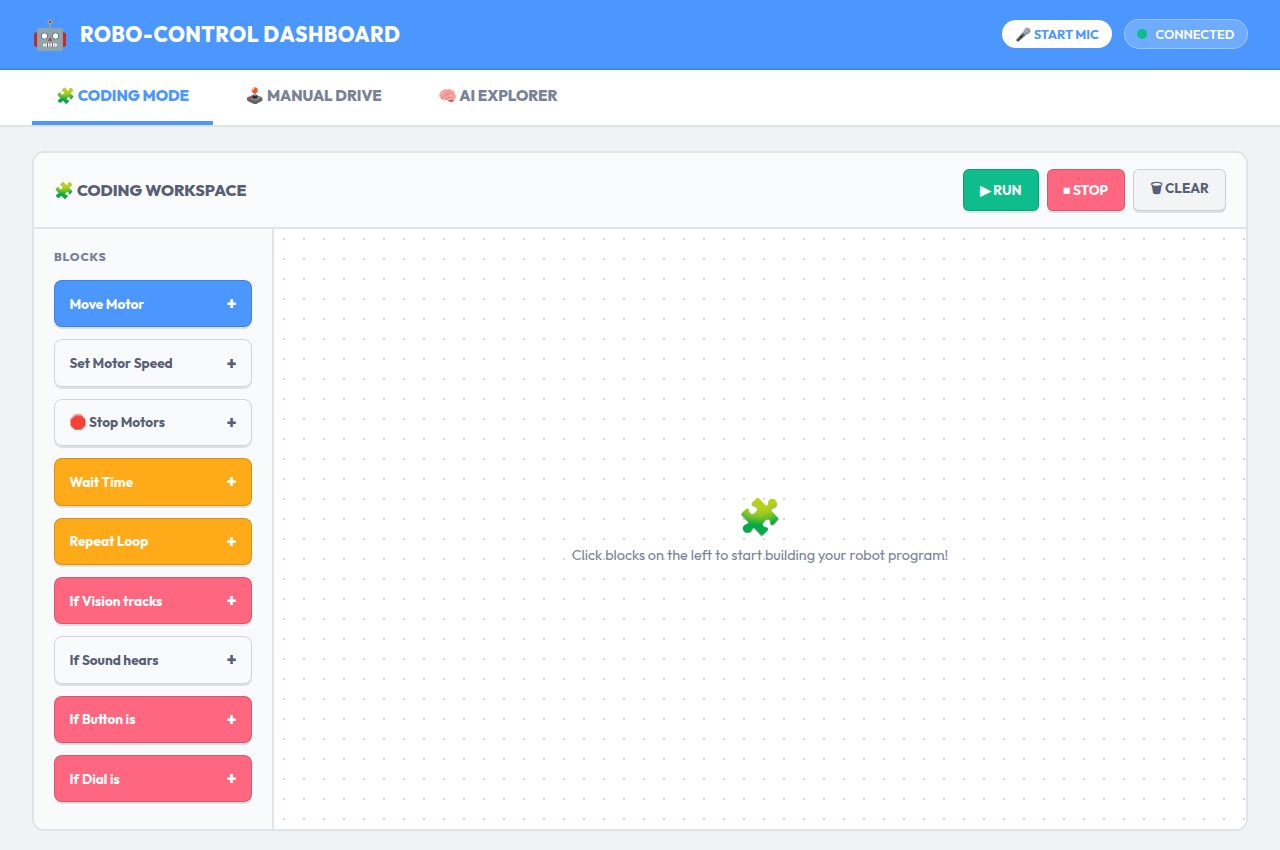
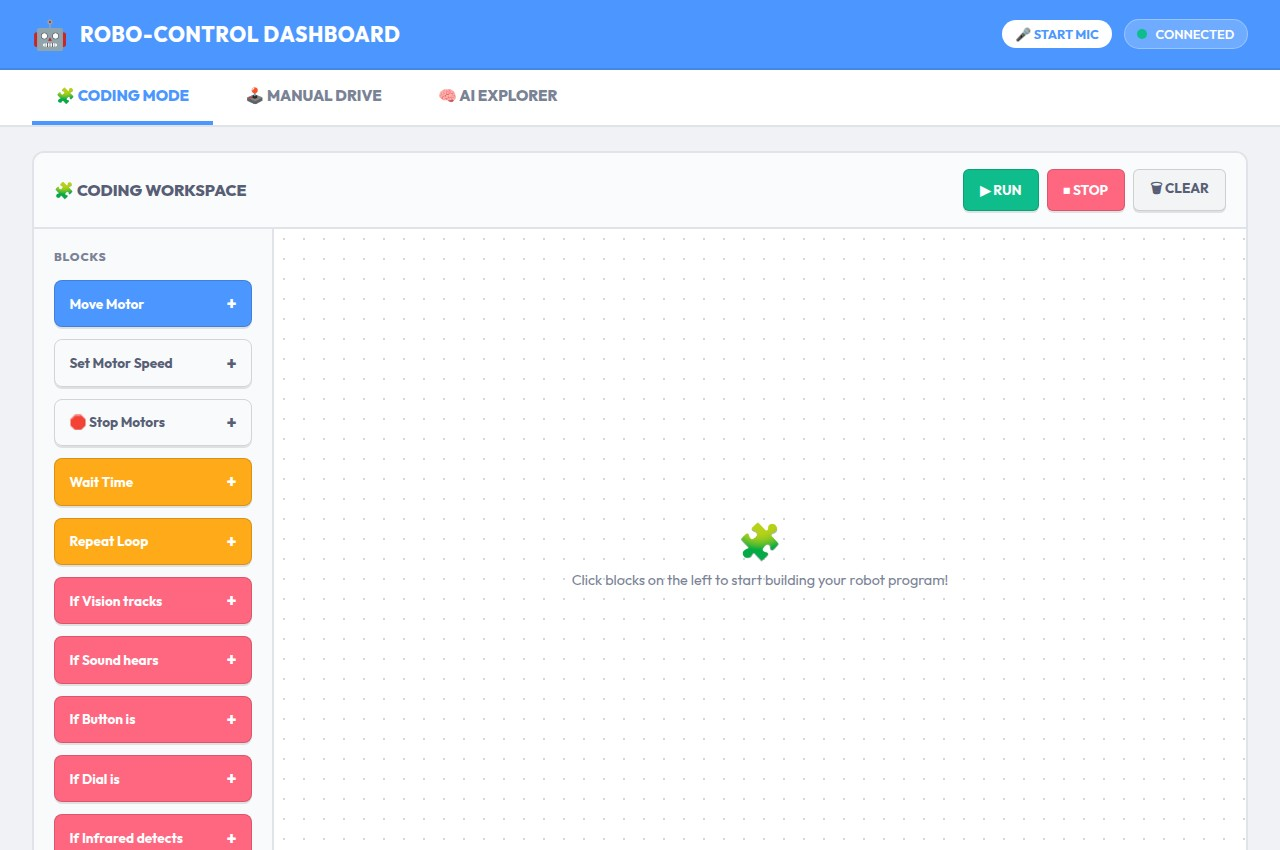
Add block templates for Infrared sensors, Light sensors, and Limit Switches to the toolbox and compiler

Changed region(s): [[0.4375, 0.5812, 0.75, 0.7035], [0.0312, 0.7341, 0.2188, 0.8259], [0.0312, 0.9482, 0.2188, 1.0]]

diff --git a/static/app.js b/static/app.js
@@ -307,6 +307,150 @@ function createBlockElement(type) {
     
     return container;
   }
+
+  if (type === 'if-ir') {
+    const container = document.createElement('div');
+    container.className = 'loop-container';
+    container.style.borderLeft = '6px solid var(--red-accent)';
+    container.style.backgroundColor = 'rgba(255, 0, 85, 0.02)';
+    container.dataset.blockType = 'if-ir';
+    
+    container.innerHTML = `
+      <div class="loop-header">
+        <div class="loop-header-left">
+          <span>📡 If Infrared on</span>
+          <select class="if-ir-port">
+            <option value="button_a">GP12</option>
+            <option value="button_b">GP13</option>
+          </select>
+          <span>detects</span>
+          <select class="if-ir-state">
+            <option value="pressed">Object/Line (Low)</option>
+            <option value="released">Nothing (High)</option>
+          </select>
+          <span>then:</span>
+        </div>
+        <button class="block-remove">&times;</button>
+      </div>
+      <div class="loop-body"></div>
+    `;
+    
+    const body = container.querySelector('.loop-body');
+    const removeBtn = container.querySelector('.block-remove');
+    
+    setTimeout(() => setActiveContainer(body), 50);
+    
+    body.addEventListener('click', (e) => {
+      e.stopPropagation();
+      setActiveContainer(body);
+    });
+    
+    removeBtn.addEventListener('click', (e) => {
+      e.stopPropagation();
+      container.remove();
+      if (activeContainer === body) {
+        setActiveContainer(mainWorkspace);
+      }
+      updateEmptyMessages();
+    });
+    
+    return container;
+  }
+
+  if (type === 'if-light') {
+    const container = document.createElement('div');
+    container.className = 'loop-container';
+    container.style.borderLeft = '6px solid var(--orange-accent)';
+    container.style.backgroundColor = 'rgba(255, 171, 25, 0.02)';
+    container.dataset.blockType = 'if-light';
+    
+    container.innerHTML = `
+      <div class="loop-header">
+        <div class="loop-header-left">
+          <span>☀️ If Light (GP14) is</span>
+          <select class="if-light-op">
+            <option value="lt">Darker than</option>
+            <option value="gt">Brighter than</option>
+            <option value="eq">Equal to</option>
+          </select>
+          <input type="number" value="30" min="0" max="100" class="if-light-val">%
+          <span>then:</span>
+        </div>
+        <button class="block-remove">&times;</button>
+      </div>
+      <div class="loop-body"></div>
+    `;
+    
+    const body = container.querySelector('.loop-body');
+    const removeBtn = container.querySelector('.block-remove');
+    
+    setTimeout(() => setActiveContainer(body), 50);
+    
+    body.addEventListener('click', (e) => {
+      e.stopPropagation();
+      setActiveContainer(body);
+    });
+    
+    removeBtn.addEventListener('click', (e) => {
+      e.stopPropagation();
+      container.remove();
+      if (activeContainer === body) {
+        setActiveContainer(mainWorkspace);
+      }
+      updateEmptyMessages();
+    });
+    
+    return container;
+  }
+
+  if (type === 'if-limit') {
+    const container = document.createElement('div');
+    container.className = 'loop-container';
+    container.style.borderLeft = '6px solid var(--red-accent)';
+    container.style.backgroundColor = 'rgba(255, 0, 85, 0.02)';
+    container.dataset.blockType = 'if-limit';
+    
+    container.innerHTML = `
+      <div class="loop-header">
+        <div class="loop-header-left">
+          <span>🛑 If Limit Switch on</span>
+          <select class="if-limit-port">
+            <option value="button_a">GP12</option>
+            <option value="button_b">GP13</option>
+          </select>
+          <span>is</span>
+          <select class="if-limit-state">
+            <option value="pressed">Triggered (Pressed)</option>
+            <option value="released">Open (Released)</option>
+          </select>
+          <span>then:</span>
+        </div>
+        <button class="block-remove">&times;</button>
+      </div>
+      <div class="loop-body"></div>
+    `;
+    
+    const body = container.querySelector('.loop-body');
+    const removeBtn = container.querySelector('.block-remove');
+    
+    setTimeout(() => setActiveContainer(body), 50);
+    
+    body.addEventListener('click', (e) => {
+      e.stopPropagation();
+      setActiveContainer(body);
+    });
+    
+    removeBtn.addEventListener('click', (e) => {
+      e.stopPropagation();
+      container.remove();
+      if (activeContainer === body) {
+        setActiveContainer(mainWorkspace);
+      }
+      updateEmptyMessages();
+    });
+    
+    return container;
+  }
   
   // Normal blocks
   const block = document.createElement('div');
@@ -475,6 +619,45 @@ function compileWorkspace(container) {
           sensor: 'potentiometer',
           value: val,
           op: op,
+          body: nestedBlocks
+        });
+      } else if (blockType === 'if-ir') {
+        const port = child.querySelector('.if-ir-port').value;
+        const state = child.querySelector('.if-ir-state').value;
+        const loopBody = child.querySelector('.loop-body');
+        const nestedBlocks = compileWorkspace(loopBody);
+        
+        blocks.push({
+          action: 'if',
+          sensor: port,
+          value: state,
+          op: 'eq',
+          body: nestedBlocks
+        });
+      } else if (blockType === 'if-light') {
+        const op = child.querySelector('.if-light-op').value;
+        const val = parseInt(child.querySelector('.if-light-val').value) || 0;
+        const loopBody = child.querySelector('.loop-body');
+        const nestedBlocks = compileWorkspace(loopBody);
+        
+        blocks.push({
+          action: 'if',
+          sensor: 'potentiometer',
+          value: val,
+          op: op,
+          body: nestedBlocks
+        });
+      } else if (blockType === 'if-limit') {
+        const port = child.querySelector('.if-limit-port').value;
+        const state = child.querySelector('.if-limit-state').value;
+        const loopBody = child.querySelector('.loop-body');
+        const nestedBlocks = compileWorkspace(loopBody);
+        
+        blocks.push({
+          action: 'if',
+          sensor: port,
+          value: state,
+          op: 'eq',
           body: nestedBlocks
         });
       }

diff --git a/static/index.html b/static/index.html
@@ -79,7 +79,7 @@
               <span class="add-icon">+</span>
             </div>
 
-            <div class="block-template block-if-sound" data-type="if-sound">
+            <div class="block-template block-if" data-type="if-sound">
               <span>If Sound hears</span>
               <span class="add-icon">+</span>
             </div>
@@ -91,6 +91,21 @@
 
             <div class="block-template block-if" data-type="if-dial">
               <span>If Dial is</span>
+              <span class="add-icon">+</span>
+            </div>
+
+            <div class="block-template block-if" data-type="if-ir">
+              <span>If Infrared detects</span>
+              <span class="add-icon">+</span>
+            </div>
+
+            <div class="block-template block-if" data-type="if-light">
+              <span>If Light Sensor is</span>
+              <span class="add-icon">+</span>
+            </div>
+
+            <div class="block-template block-if" data-type="if-limit">
+              <span>If Limit Switch is</span>
               <span class="add-icon">+</span>
             </div>
           </aside>